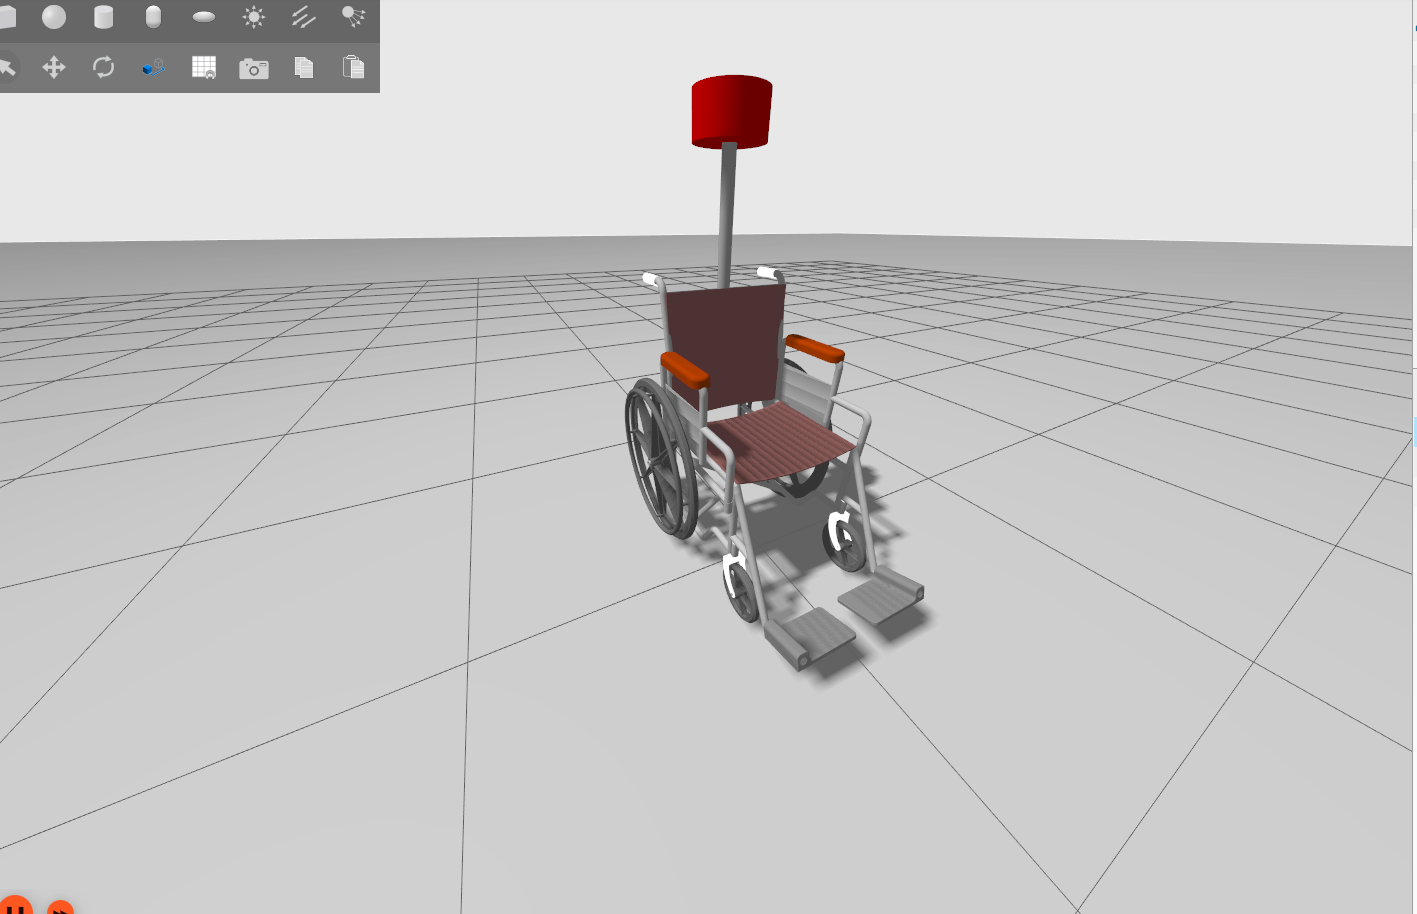
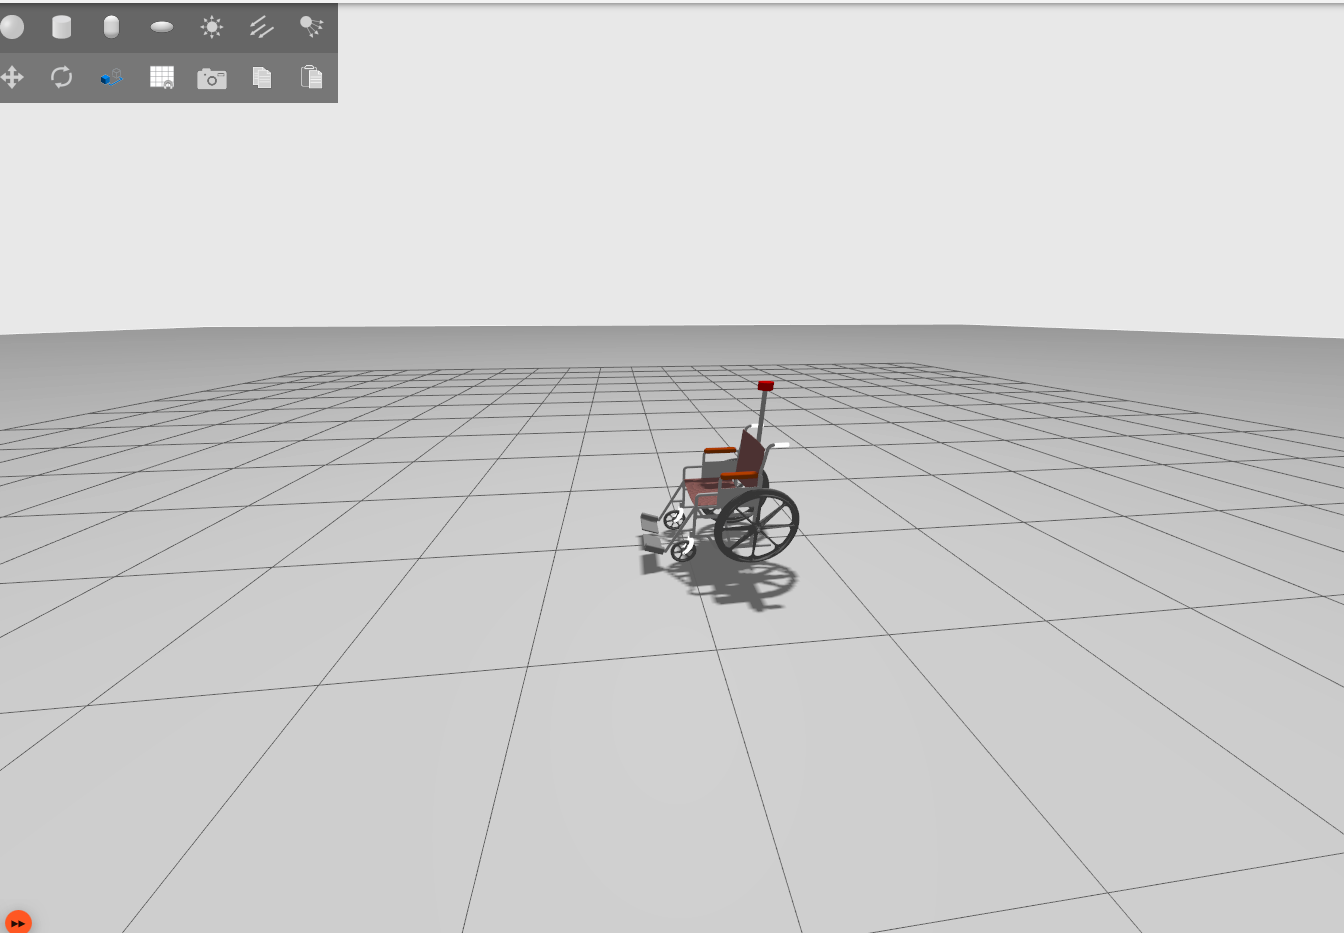
reduced lidar size

diff --git a/wheelchair_script/wheelchair_script/obstacle_avoidance.py b/wheelchair_script/wheelchair_script/obstacle_avoidance.py
@@ -37,7 +37,7 @@ class ObstacleAvoidanceChair(Node):
 
             # 2. SEPARATE DIRECTIONAL EVALUATION BALANCING
             # Width window: 80cm (abs(y) < 0.40) | Height window: 1.2m (abs(z) < 0.60)
-            if abs(y) < 0.75 and abs(z) < 0.70:
+            if abs(y) < 0.95 and abs(z) < 0.70:
                 
                 # Check Front Zone (0.28m out to 2.5m ahead)
                 if 0.3 <= x < 1.4:
